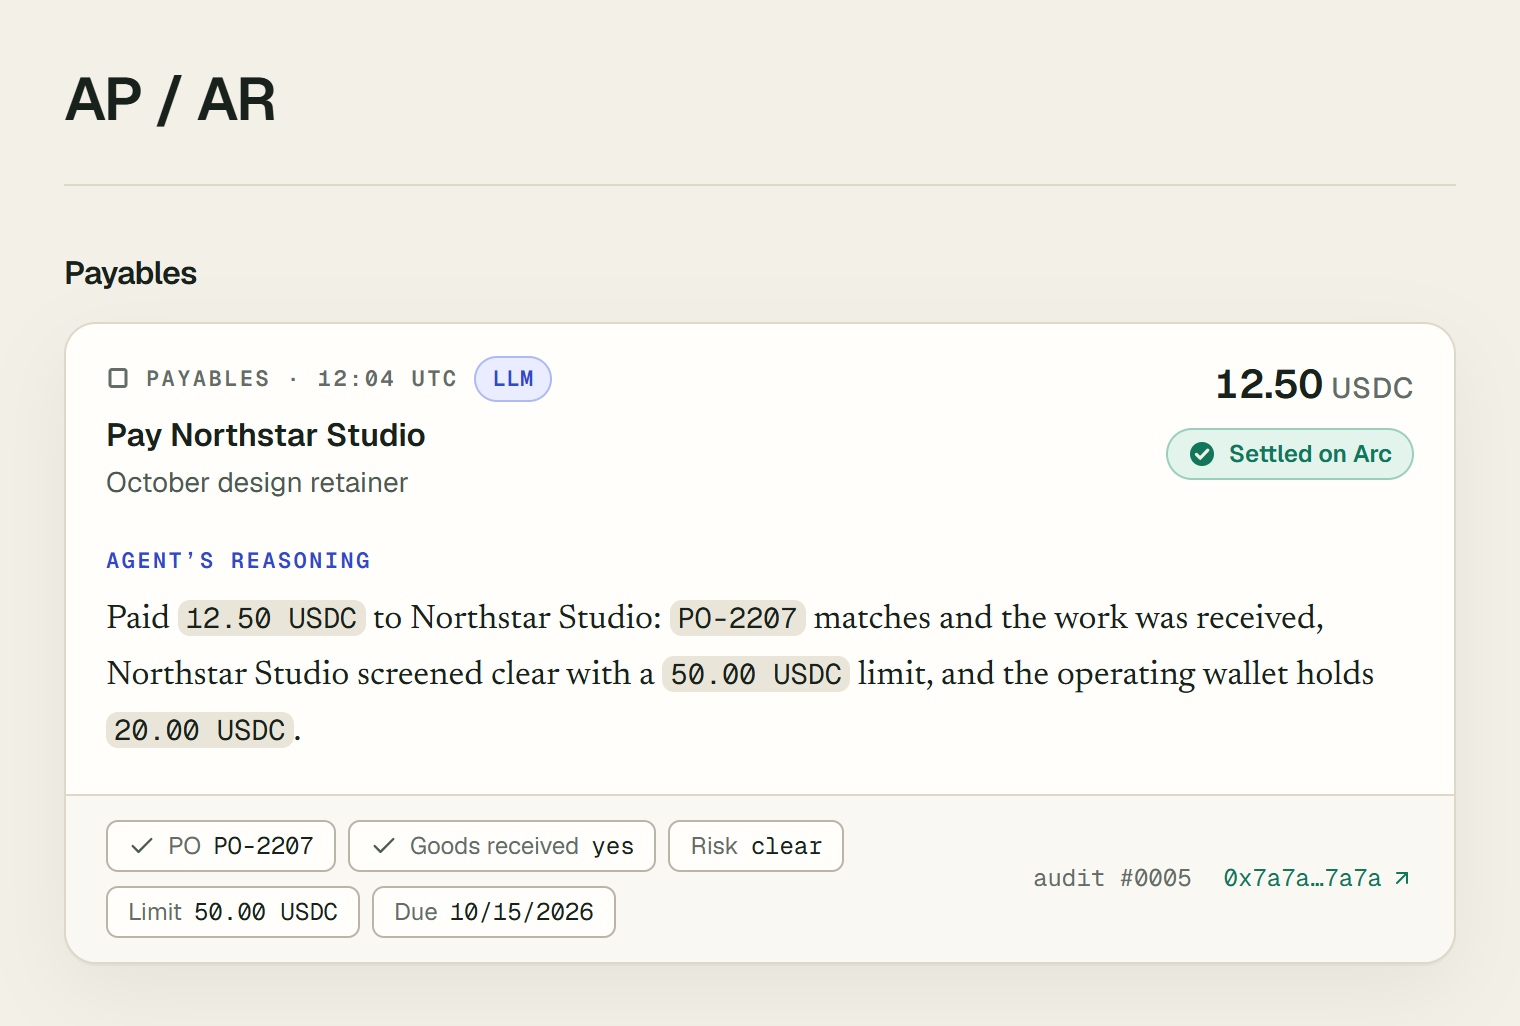
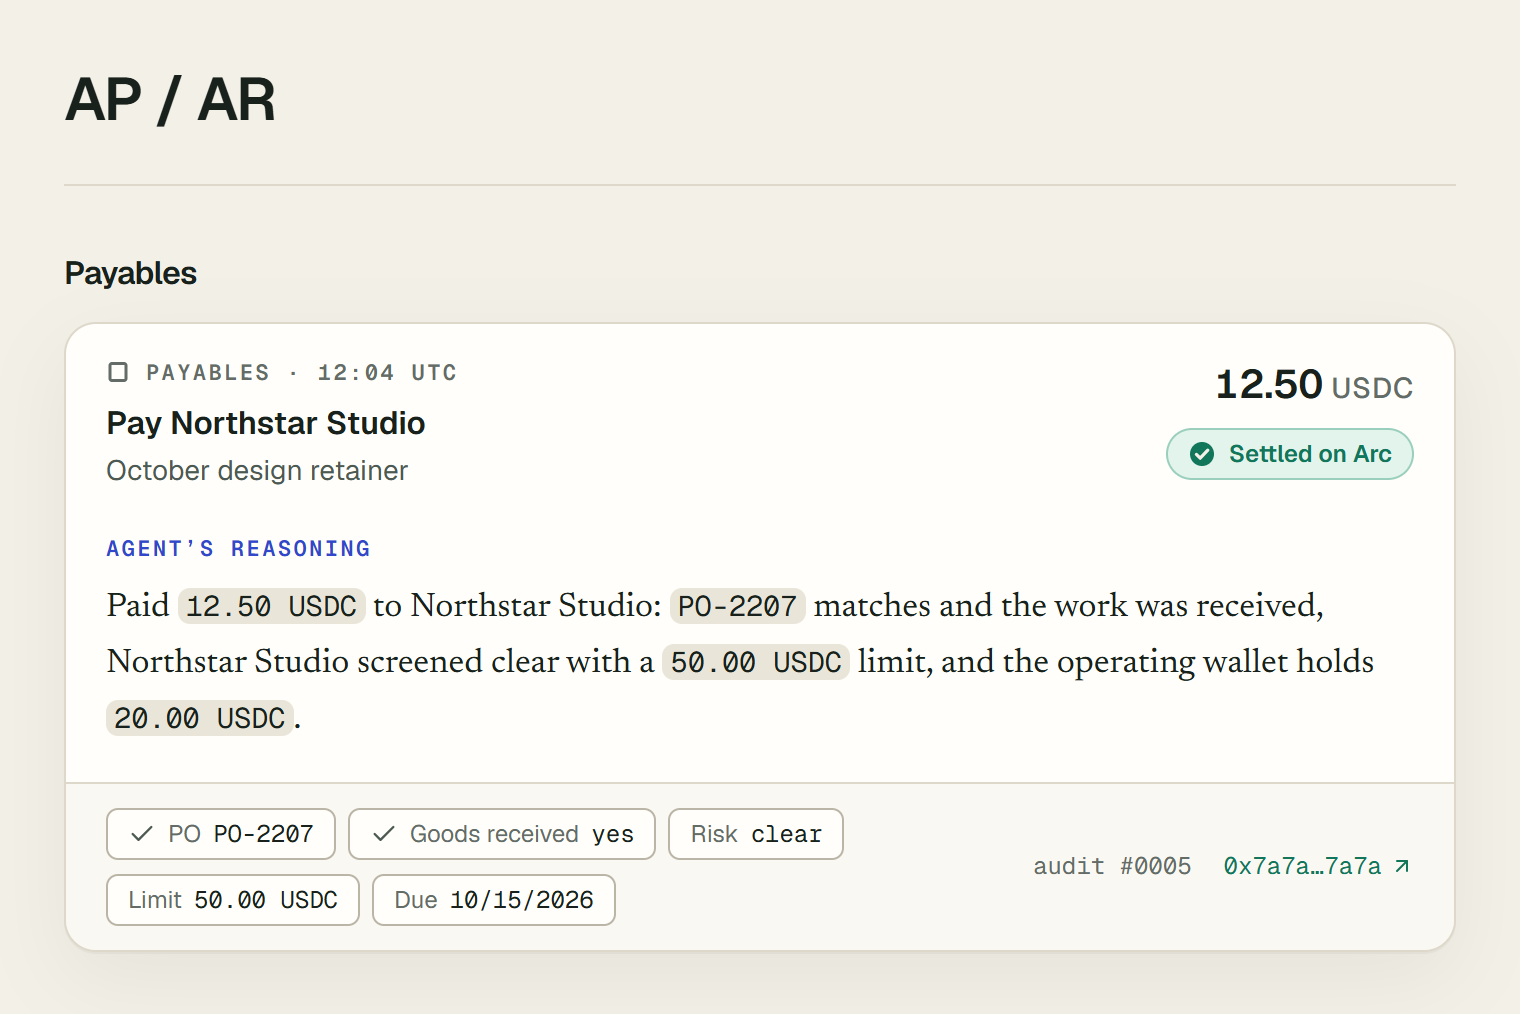
Hide a paid milestone's controls, and tag a card only when the policy decided
- A paid milestone no longer shows the manual verification form: it
  cannot be unverified, and the disabled box read as a control.
  MilestoneVerification loses its now unused disabled prop.
- A decision card no longer names the model that decided (DEEPSEEK,
  LLM): the reasoning under "Agent's reasoning" is the agent's, and the
  audit log keeps the model's name. A card made by the written policy,
  because no model answered, is tagged "Written policy", so its
  reasoning is never read as the model's judgement.
- The first-payment guide's decision screenshot is re-photographed
  without the tag, and its alt text no longer says "decided by the LLM".

diff --git a/src/components/MilestoneVerification.tsx b/src/components/MilestoneVerification.tsx
@@ -9,7 +9,7 @@ import { useActionForm } from "@/components/ui/useActionForm";
 const INITIAL: MilestoneActionResult = { ok: false, message: "" };
 
 /** A person's own check of a milestone, recorded with a note; the agent pays verified milestones. */
-export default function MilestoneVerification({ milestoneId, verified, disabled, orgSlug }: { milestoneId: string; verified: boolean; disabled?: boolean; orgSlug: string }) {
+export default function MilestoneVerification({ milestoneId, verified, orgSlug }: { milestoneId: string; verified: boolean; orgSlug: string }) {
   const { state, pending, formProps } = useActionForm(manualMilestoneVerificationAction, INITIAL, { resetOnSuccess: true, toastOnSuccess: true });
   const noteId = `milestone-note-${milestoneId}`;
 
@@ -28,11 +28,11 @@ export default function MilestoneVerification({ milestoneId, verified, disabled,
           required
           minLength={3}
           maxLength={280}
-          disabled={disabled || pending}
+          disabled={pending}
           placeholder={verified ? "Reason for revoking verification" : "Evidence checked or approver note"}
           className="h-11 sm:h-8"
         />
-        <SubmitButton name="intent" value={verified ? "revoke" : "verify"} variant="secondary" size="sm" disabled={disabled} pendingLabel="Recording…" className="h-11 shrink-0 sm:h-8">
+        <SubmitButton name="intent" value={verified ? "revoke" : "verify"} variant="secondary" size="sm" pendingLabel="Recording…" className="h-11 shrink-0 sm:h-8">
           {verified ? "Revoke manually" : "Verify manually"}
         </SubmitButton>
       </div>

diff --git a/src/components/vx/DecisionCard.tsx b/src/components/vx/DecisionCard.tsx
@@ -7,7 +7,7 @@ import { cn } from "@/components/ui/cn";
 import { Eyebrow } from "@/components/ui/Eyebrow";
 import { orgHref } from "@/lib/auth/org-paths";
 import { DOMAIN_NAME, DomainGlyph } from "./Glyphs";
-import { explorerTx, fmt, Hash, ModeBadge, Money, OutcomeBadge, Reasoning } from "./Primitives";
+import { explorerTx, fmt, Hash, Money, OutcomeBadge, Reasoning } from "./Primitives";
 import type { Decision, Evidence, Guardrail, Outcome } from "./types";
 
 const CARD_TONE: Partial<Record<Outcome, "refused" | "held" | "simulated">> = {
@@ -36,7 +36,13 @@ export function DecisionCard({ decision, compact = false, orgSlug }: { decision:
               <Eyebrow>
                 {DOMAIN_NAME[decision.domain]} · {time} UTC
               </Eyebrow>
-              <ModeBadge mode={decision.decisionMode} />
+              {/* A model's decision needs no tag: its reasoning is the agent's, and the audit log names the model.
+                  A fallback does, so the written policy's reasoning is never read as the model's judgement. */}
+              {decision.decisionMode === "heuristic" && (
+                <Badge size="sm" title="No model answered, so the written policy decided." className="font-mono uppercase tracking-wide">
+                  Written policy
+                </Badge>
+              )}
             </div>
             <h3 className="mt-1.5 text-base font-semibold leading-snug text-ink">
               {refused && <span className="font-normal text-ink-3">Tried to </span>}

diff --git a/tests/decision-card.test.tsx b/tests/decision-card.test.tsx
@@ -31,6 +31,19 @@ describe("DecisionCard", () => {
     expect(html(<DecisionCard decision={base} orgSlug="acme" />)).not.toContain("<footer");
   });
 
+  it.each(["deepseek", "anthropic", "openai", "llm"])("names no model when %s decided: its reasoning is the agent's", (mode) => {
+    const markup = html(<DecisionCard decision={{ ...base, decisionMode: mode }} orgSlug="acme" />);
+    expect(markup.toLowerCase()).not.toContain(mode);
+    expect(markup).not.toContain("Written policy");
+  });
+
+  it("marks a decision the written policy made because no model answered", () => {
+    const markup = html(<DecisionCard decision={{ ...base, decisionMode: "heuristic" }} orgSlug="acme" />);
+    expect(markup).toContain("Written policy");
+    expect(markup).toContain('title="No model answered, so the written policy decided."');
+    expect(markup).not.toContain("heuristic");
+  });
+
   it("links its audit entry and its transaction", () => {
     const markup = html(<DecisionCard decision={{ ...base, auditSeq: 42, txHash: `0x${"ab".repeat(32)}` }} orgSlug="acme" />);
     expect(markup).toContain('href="/o/acme/audit#seq-42"');

diff --git a/src/app/o/[slug]/contractors/page.tsx b/src/app/o/[slug]/contractors/page.tsx
@@ -76,12 +76,12 @@ export default async function ContractorsPage({ params }: { params: Promise<{ sl
             {decisions.map((decision, index) => (
               <div key={decision.id}>
                 <DecisionCard decision={decision} orgSlug={slug} />
-                {canWrite && (
+                {/* A paid milestone cannot be unverified (the action refuses it), so it has no controls. */}
+                {canWrite && milestones[index].status !== "paid" && (
                   <MilestoneVerification
                     orgSlug={slug}
                     milestoneId={milestones[index].id}
                     verified={milestones[index].verified}
-                    disabled={milestones[index].status === "paid"}
                   />
                 )}
               </div>
